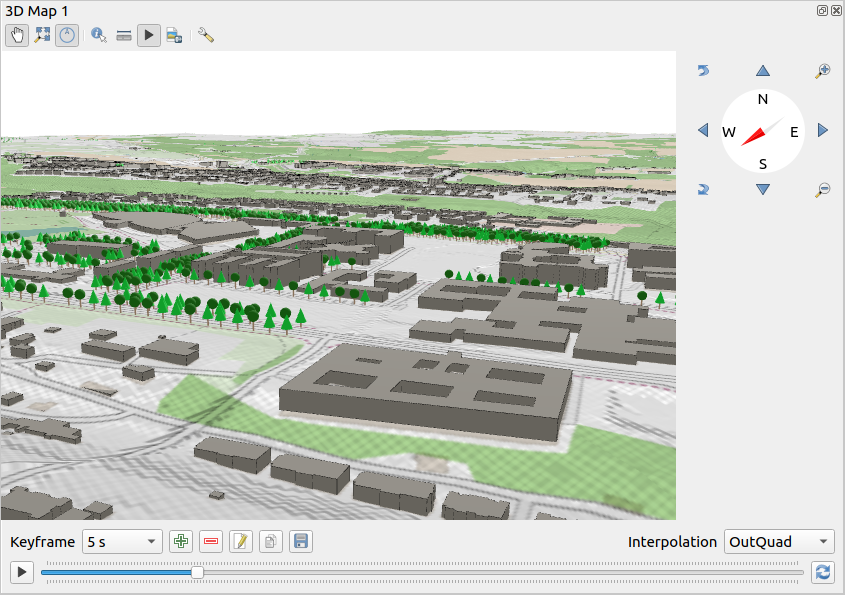
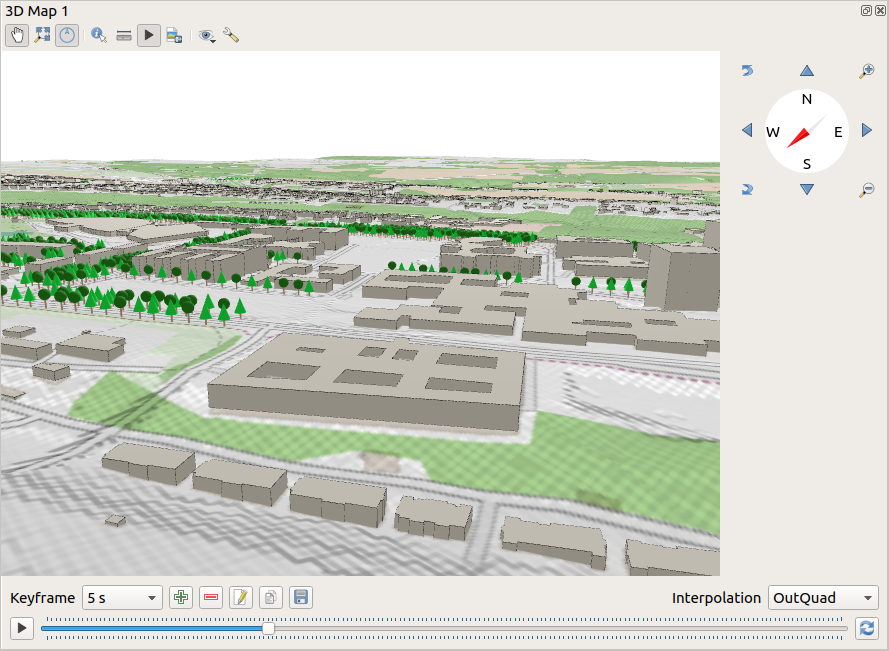
Map theme selection is now done from 3D Map view toolbar
and not inside the config dialog

diff --git a/docs/user_manual/introduction/qgis_gui.rst b/docs/user_manual/introduction/qgis_gui.rst
@@ -2367,6 +2367,8 @@ The following tools are provided at the top of the 3D map view panel:
   <create_animation>` widget
 * |saveMapAsImage| :sup:`Save as image...`: exports the current view to
   an image file format
+* |showMapTheme| :sup:`Set View Theme`: Allows you to select the set of layers to
+  display in the map view from predefined :ref:`map themes <map_themes>`.
 * |options| :sup:`Configure` the map view :ref:`settings <scene_configuration>`
 
 
@@ -2507,9 +2509,6 @@ fine-tune the 3D scene:
     cracks between tiles of the terrain.
     Raising this value will add vertical walls ("skirts") around terrain
     tiles to hide the cracks.
-  * :guilabel:`Map theme`: Allows you to select the set of layers to
-    display in the map view from predefined
-    :ref:`map themes <map_themes>`.
 
 * |unchecked| :guilabel:`Terrain shading`: Allows you to choose how the
   terrain should be rendered:
